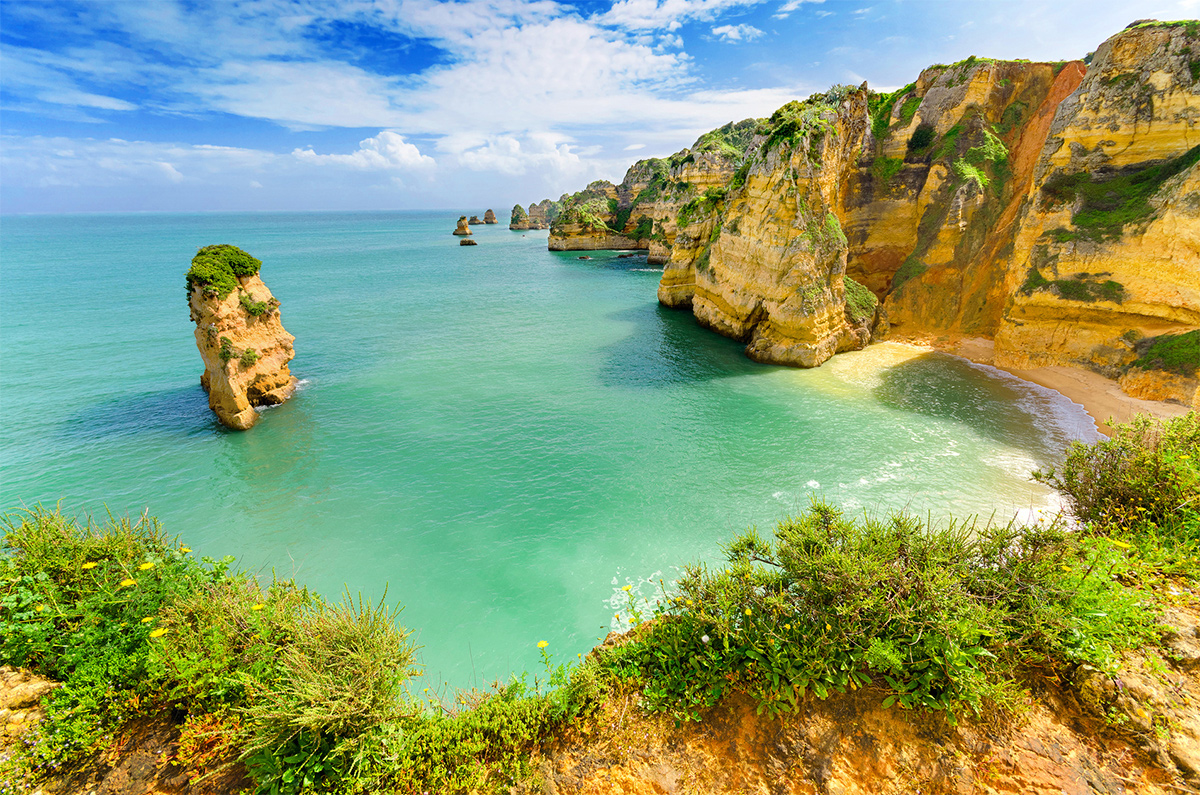
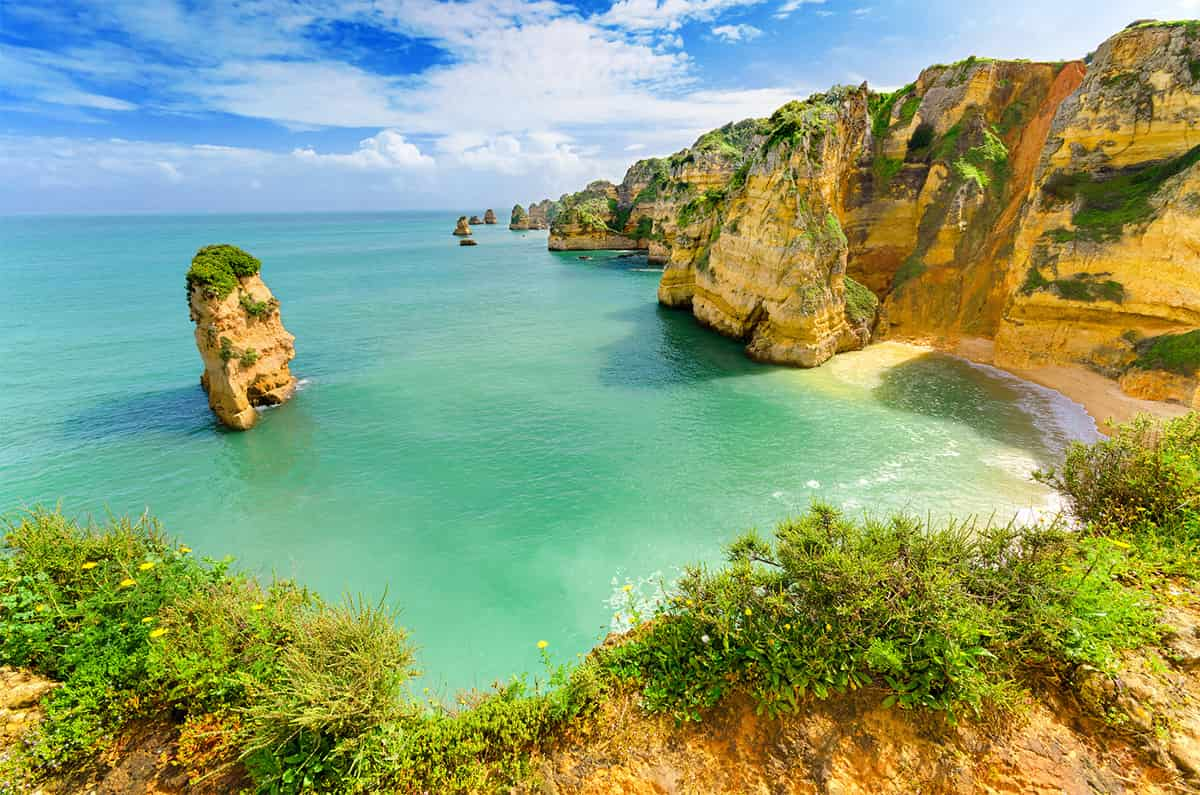
addet: compressed images and added site caching

diff --git a/index.html b/index.html
@@ -7,8 +7,7 @@
   <link rel="stylesheet" href="css/swiper-bundle.min.css">
   <!-- <link rel="stylesheet" href="css/normalize.css"> -->
   <link rel="preconnect" href="https://fonts.gstatic.com">
-  <link href="https://fonts.googleapis.com/css2?family=Mulish:wght@400;700&family=Nunito:wght@400;600;700;800&display=swap"
-        rel="stylesheet"
+  <link href="https://fonts.googleapis.com/css2?family=Mulish:wght@400;700&family=Nunito:wght@400;600;700;800&display=swap" rel="preload"
   >
   <link rel="stylesheet" href="css/aos.css">
   <link rel="stylesheet" href="css/style.css">
@@ -23,7 +22,6 @@
           alt="Logo: Best Tour Plan" 
           class="logo__image">
         </a>
-
         <form action="#" class="search navbar__search navbar__search--mobile_hidden">
           <input 
           type="text" 
@@ -35,7 +33,6 @@
             alt="Icon: search">
           </button>
         </form>
-
         <a href="#" class="user navbar__user navbar__user--mobile_hidden" data-aos="fade-down" data-aos-delay="300">
           <img 
           src="img/user-avatar.jpg" 
